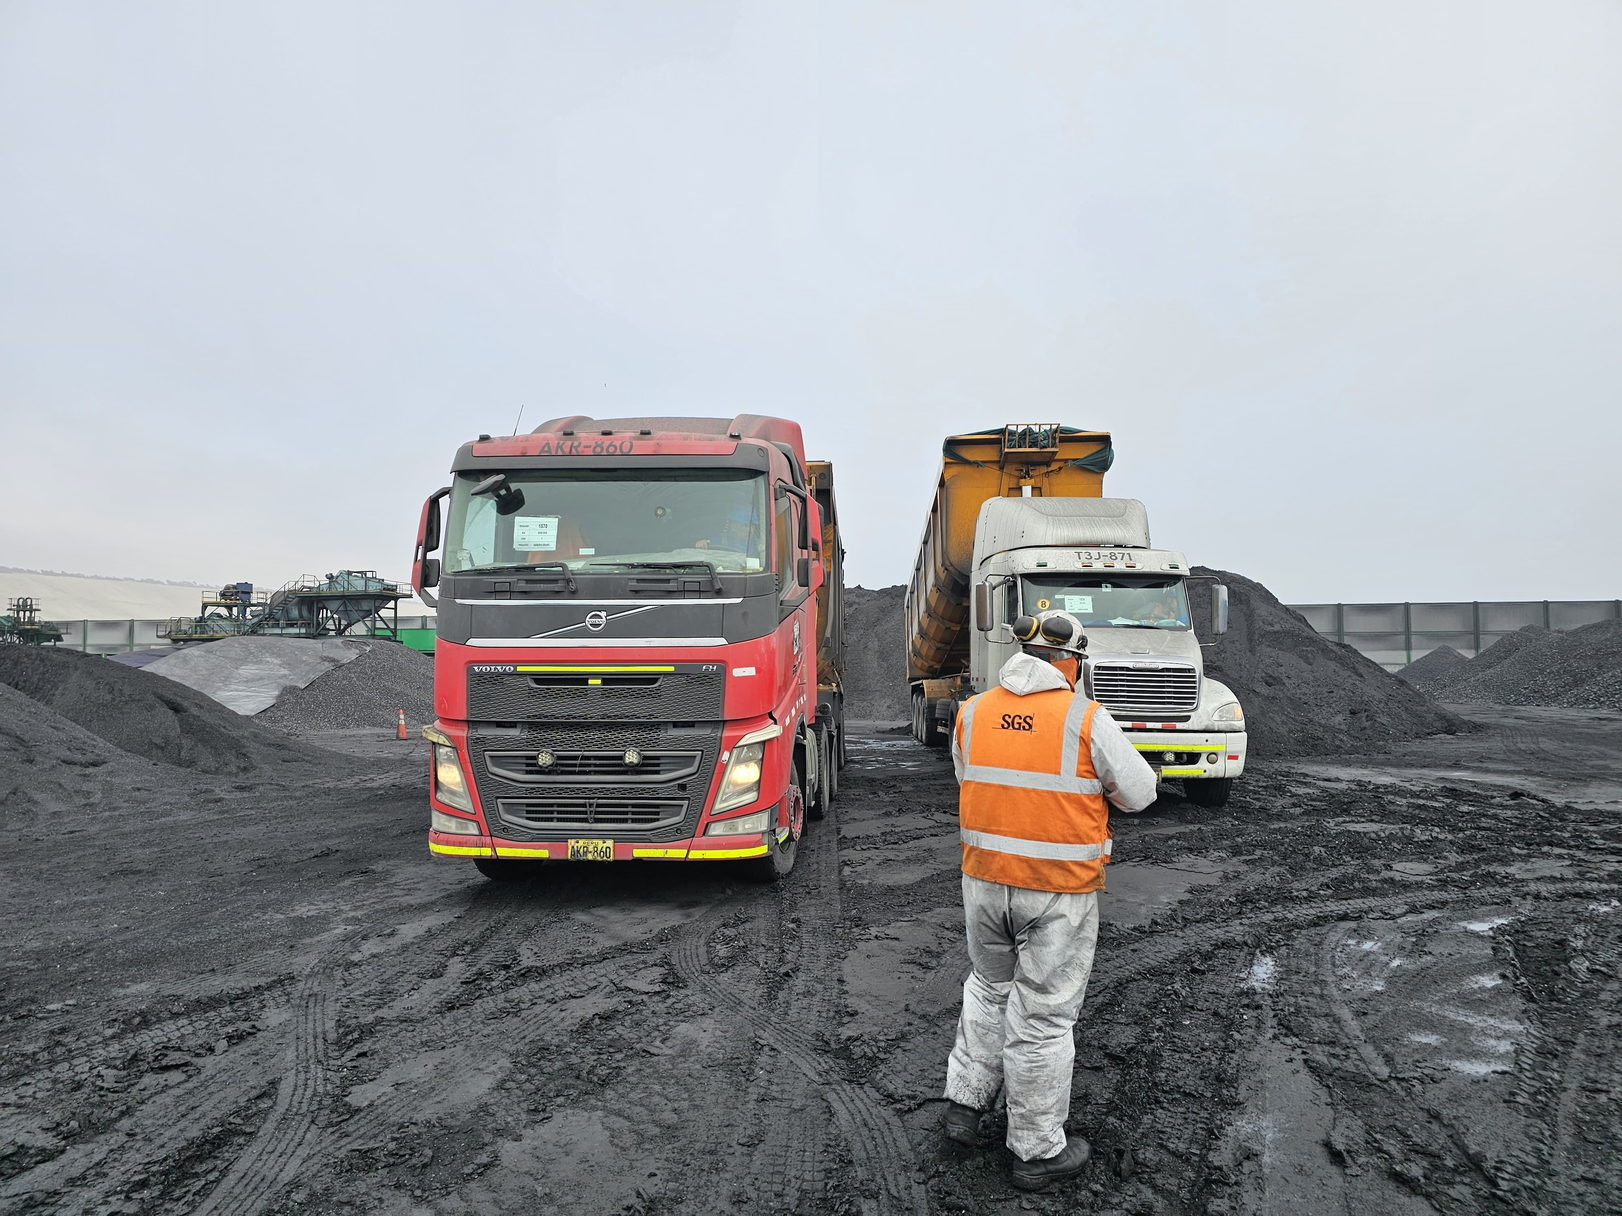
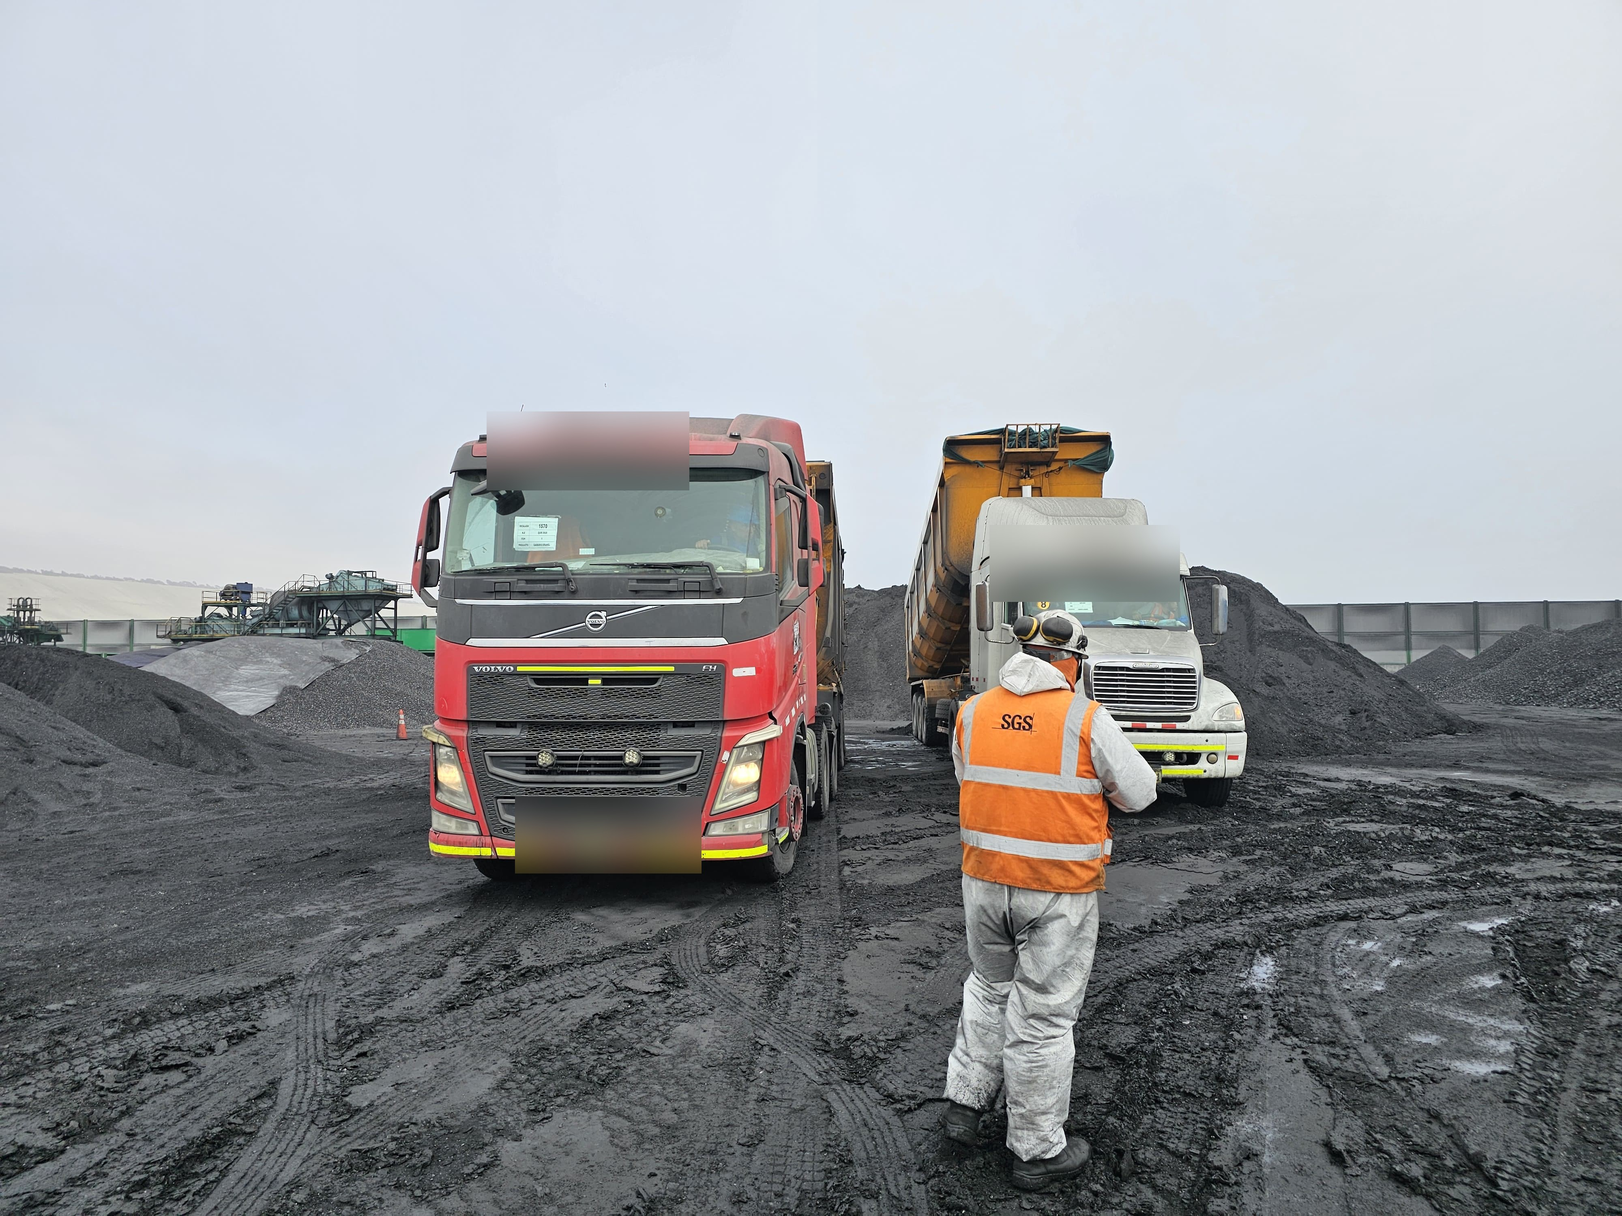
feat(home): rediseno Servicios iter.2 - bento asimetrico + GPS transversal
- index.html: reemplaza manifiesto 01-04 por bento (GPS band transversal + 3 celdas: s1 parallax / s2 wipe / s3 line-draw). GPS deja de ser 4to servicio.
- css/home.css: bloque .servicios iter-2 (Ag.6, verbatim).
- js/main.js: observer existente ampliado a [data-reveal-wipe],[data-draw-route] (no nuevo observer) + parallax celda 01.
- fotos: placas enmascaradas (s1 blur AKR-860/T3J-871; s2 recorte quita S-885); alt corregidos.

Changed region(s): [[0.3125, 0.651, 0.4375, 0.744], [0.2812, 0.341, 0.4375, 0.403], [0.5938, 0.434, 0.75, 0.496]]

diff --git a/css/home.css b/css/home.css
@@ -368,54 +368,71 @@
 
 
 /* ============================================================
-   SERVICIOS (rediseño Ag.6 · 07/2026)
-   Reemplaza el bloque .services-grid / .service-card anterior.
-   Nota Ag.3: reglas [data-reveal] acotadas a .servicios (evita afectar
-   el resto del home; el observer de main.js añade .is-visible).
+   SERVICIOS (rediseño Ag.6 iter.2 · bento asimétrico + GPS transversal · 07/2026)
+   Reemplaza el manifiesto 01-04 de la iter.1. GPS pasa de 4to servicio
+   a franja transversal. Reveal (wipe s2 / line-draw s3) vía .is-visible
+   que añade el IntersectionObserver existente de main.js; parallax s1 en JS.
    ============================================================ */
-.servicios { background: #FFFFFF; padding-block: clamp(3rem, 6vw, 6rem); }
-.servicios__intro { max-width: 42rem; margin-bottom: clamp(2rem, 4vw, 3.5rem); }
-.servicios__eyebrow { font-family: var(--font-body, 'Source Sans 3', sans-serif); font-size: .8rem; font-weight: 600; letter-spacing: .08em; text-transform: uppercase; color: var(--color-sky, #2A80C8); }
-.servicios__heading { font-family: var(--font-display, 'Barlow Condensed', sans-serif); font-size: clamp(2rem, 3.5vw, 3rem); color: var(--color-navy, #0A2240); margin: .5rem 0 0; }
-.servicios__body { display: grid; grid-template-columns: minmax(260px, 38%) 1fr; gap: clamp(2rem, 4vw, 3.5rem); align-items: stretch; }
-.servicios__photo { position: relative; overflow: hidden; min-height: 480px; clip-path: polygon(0 0, 100% 0, 88% 100%, 0 100%); }
-.servicios__photo-img { width: 100%; height: 100%; object-fit: cover; display: block; }
-.servicios__photo-overlay { position: absolute; inset: 0; background: linear-gradient(115deg, var(--color-navy, #0A2240) 12%, rgba(10,34,64,.55) 45%, rgba(10,34,64,.12) 75%); }
-.servicios__photo-chip { position: absolute; left: 1.5rem; bottom: 1.5rem; display: flex; align-items: baseline; gap: .5rem; padding: .75rem 1.1rem; border: 1px solid rgba(255,255,255,.18); color: #fff; backdrop-filter: blur(14px) saturate(140%); -webkit-backdrop-filter: blur(14px) saturate(140%); background: rgba(10,34,64,.35); }
-.servicios__photo-chip-value { font-family: var(--font-display, 'Barlow Condensed', sans-serif); font-size: 1.75rem; font-weight: 600; line-height: 1; }
-.servicios__photo-chip-label { font-family: var(--font-body, 'Source Sans 3', sans-serif); font-size: .7rem; text-transform: uppercase; letter-spacing: .06em; opacity: .85; }
-@media (prefers-reduced-transparency: reduce) { .servicios__photo-chip { background: var(--color-navy, #0A2240); backdrop-filter: none; -webkit-backdrop-filter: none; } }
-.servicios__manifest { list-style: none; margin: 0; padding: 0; }
-.servicios__row { display: grid; grid-template-columns: auto auto 1fr auto; align-items: center; gap: 1.25rem 1.5rem; padding: 1.75rem 0; border-top: 1px solid rgba(10,34,64,.12); transition: background-color .25s ease; }
-.servicios__row:last-child { border-bottom: 1px solid rgba(10,34,64,.12); }
-.servicios__row:hover, .servicios__row:focus-within { background-color: rgba(42,128,200,.06); }
-.servicios__row-index { font-family: var(--font-display, 'Barlow Condensed', sans-serif); font-size: 2.5rem; font-weight: 600; line-height: 1; color: var(--color-amber-deep, #C06A1E); min-width: 2.2ch; }
-.servicios__row-icon { width: 2rem; height: 2rem; color: var(--color-navy, #0A2240); flex-shrink: 0; }
-.servicios__row-icon svg { width: 100%; height: 100%; }
-.servicios__row-copy { min-width: 0; }
-.servicios__row-title { font-family: var(--font-display, 'Barlow Condensed', sans-serif); font-size: clamp(1.2rem, 1.6vw, 1.5rem); font-weight: 600; text-transform: uppercase; letter-spacing: .01em; color: var(--color-navy, #0A2240); margin: 0 0 .35rem; }
-.servicios__row-desc { font-family: var(--font-body, 'Source Sans 3', sans-serif); font-size: .95rem; line-height: 1.5; max-width: 52ch; color: #3C4A5C; margin: 0; }
-.servicios__row-link { font-family: var(--font-body, 'Source Sans 3', sans-serif); font-size: .875rem; font-weight: 600; color: var(--color-cta, #1B4F8A); text-decoration: none; white-space: nowrap; display: inline-flex; align-items: center; gap: .35rem; }
-.servicios__row-link:hover, .servicios__row-link:focus-visible { color: var(--color-sky, #2A80C8); }
-.servicios__row-link span { display: inline-block; transition: transform .2s ease; }
-.servicios__row:hover .servicios__row-link span, .servicios__row:focus-within .servicios__row-link span { transform: translateX(3px); }
-.servicios [data-reveal] { opacity: 0; transform: translateY(16px); transition: opacity .5s ease, transform .5s ease; }
-.servicios [data-reveal].is-visible { opacity: 1; transform: translateY(0); }
-.servicios__row:nth-child(1)[data-reveal] { transition-delay: 0ms; }
-.servicios__row:nth-child(2)[data-reveal] { transition-delay: 80ms; }
-.servicios__row:nth-child(3)[data-reveal] { transition-delay: 160ms; }
-.servicios__row:nth-child(4)[data-reveal] { transition-delay: 240ms; }
-@media (prefers-reduced-motion: reduce) { .servicios [data-reveal] { opacity: 1; transform: none; transition: none; } }
-@media (max-width: 768px) {
-  .servicios__body { grid-template-columns: 1fr; gap: 1.5rem; }
-  .servicios__photo { min-height: 200px; clip-path: polygon(0 0, 100% 0, 100% 100%, 0 90%); }
-  .servicios__photo-chip { left: 1rem; bottom: 1rem; padding: .6rem .85rem; }
-  .servicios__photo-chip-value { font-size: 1.4rem; }
-  .servicios__row { grid-template-columns: auto 1fr; grid-template-areas: "index icon" "copy copy" "link link"; row-gap: .6rem; }
-  .servicios__row-index { grid-area: index; font-size: 1.9rem; }
-  .servicios__row-icon { grid-area: icon; justify-self: start; width: 1.75rem; height: 1.75rem; }
-  .servicios__row-copy { grid-area: copy; }
-  .servicios__row-link { grid-area: link; min-height: 44px; align-items: center; }
+.servicios{background:#FFFFFF;padding-block:clamp(3rem,6vw,6rem);}
+.servicios__intro{max-width:42rem;margin-bottom:clamp(1.5rem,3vw,2.5rem);}
+.servicios__eyebrow{font-family:var(--font-body,'Source Sans 3',sans-serif);font-size:.8rem;font-weight:600;letter-spacing:.08em;text-transform:uppercase;color:var(--color-sky,#2A80C8);}
+.servicios__heading{font-family:var(--font-display,'Barlow Condensed',sans-serif);font-size:clamp(2rem,3.5vw,3rem);color:var(--color-navy,#0A2240);margin:.5rem 0 0;}
+
+.servicios__gps-band{display:flex;align-items:center;gap:.85rem;background:var(--color-navy,#0A2240);color:#fff;padding:.9rem 1.5rem;margin-bottom:clamp(2rem,4vw,3rem);border-left:4px solid var(--color-amber,#D97B2A);}
+.servicios__gps-dot{position:relative;width:.6rem;height:.6rem;border-radius:50%;background:var(--color-amber,#D97B2A);flex-shrink:0;}
+.servicios__gps-dot::after{content:"";position:absolute;inset:-6px;border-radius:50%;border:1px solid var(--color-amber,#D97B2A);animation:gpsPing 2.4s ease-out infinite;}
+@keyframes gpsPing{0%{transform:scale(.6);opacity:.9;}100%{transform:scale(2.2);opacity:0;}}
+.servicios__gps-text{font-family:var(--font-body,'Source Sans 3',sans-serif);font-size:.9rem;margin:0;}
+@media (prefers-reduced-motion:reduce){.servicios__gps-dot::after{animation:none;display:none;}}
+
+.servicios__grid{display:grid;grid-template-columns:1.35fr 1fr;grid-template-areas:"s1 s1" "s2 s3";gap:clamp(1.5rem,3vw,2rem);}
+.servicios__cell{position:relative;}
+.servicios__cell--s1{grid-area:s1;min-height:420px;overflow:hidden;}
+.servicios__cell--s2{grid-area:s2;min-height:380px;display:flex;flex-direction:column;}
+.servicios__cell--s3{grid-area:s3;min-height:380px;background:var(--color-navy,#0A2240);display:flex;flex-direction:column;justify-content:space-between;padding:1.75rem;overflow:hidden;}
+
+.servicios__cell-photo{position:absolute;inset:0;overflow:hidden;}
+.servicios__cell-img{width:100%;height:120%;object-fit:cover;display:block;will-change:transform;}
+.servicios__cell-overlay{position:absolute;inset:0;background:linear-gradient(100deg,var(--color-navy,#0A2240) 20%,rgba(10,34,64,.5) 50%,rgba(10,34,64,.05) 80%);}
+.servicios__cell-chip{position:absolute;left:1.5rem;bottom:1.5rem;padding:.6rem 1rem;color:#fff;font-family:var(--font-body,'Source Sans 3',sans-serif);font-size:.8rem;background:rgba(10,34,64,.35);backdrop-filter:blur(14px) saturate(140%);-webkit-backdrop-filter:blur(14px) saturate(140%);border:1px solid rgba(255,255,255,.18);}
+@media (prefers-reduced-transparency:reduce){.servicios__cell-chip{background:var(--color-navy,#0A2240);backdrop-filter:none;-webkit-backdrop-filter:none;}}
+.servicios__cell--s1 .servicios__cell-copy{position:relative;z-index:1;padding:2rem;max-width:30rem;color:#fff;}
+.servicios__cell--s1 .servicios__cell-title,.servicios__cell--s1 .servicios__cell-desc{color:#fff;}
+.servicios__cell--s1 .servicios__cell-link{color:var(--color-sky,#2A80C8);}
+
+.servicios__cell-photo--top{position:relative;height:55%;overflow:hidden;clip-path:inset(0 100% 0 0);transition:clip-path .9s cubic-bezier(.16,1,.3,1);}
+.servicios__cell--s2.is-visible .servicios__cell-photo--top{clip-path:inset(0 0 0 0);}
+.servicios__cell--s2 .servicios__cell-img{height:100%;}
+.servicios__cell-overlay--bottom{position:absolute;inset:0;background:linear-gradient(to bottom,rgba(10,34,64,0) 60%,var(--color-navy,#0A2240) 100%);}
+.servicios__cell-copy--solid{background:var(--color-navy,#0A2240);color:#fff;padding:1.5rem;flex:1;}
+.servicios__cell--s2 .servicios__cell-title,.servicios__cell--s2 .servicios__cell-desc{color:#fff;}
+.servicios__cell--s2 .servicios__cell-link{color:var(--color-sky,#2A80C8);}
+
+.servicios__cell--s3 .servicios__cell-title,.servicios__cell--s3 .servicios__cell-desc{color:#fff;}
+.servicios__cell--s3 .servicios__cell-link{color:var(--color-sky,#2A80C8);}
+.servicios__route-svg{width:100%;height:110px;color:var(--color-amber,#D97B2A);align-self:center;}
+.servicios__route-path{stroke-dasharray:260;stroke-dashoffset:260;transition:stroke-dashoffset 1.4s ease-out;}
+.servicios__cell--s3.is-visible .servicios__route-path{stroke-dashoffset:0;}
+
+.servicios__cell-index{font-family:var(--font-display,'Barlow Condensed',sans-serif);font-size:1.5rem;font-weight:600;color:var(--color-amber-deep,#C06A1E);display:block;margin-bottom:.35rem;}
+.servicios__cell-title{font-family:var(--font-display,'Barlow Condensed',sans-serif);font-size:clamp(1.2rem,1.6vw,1.5rem);font-weight:600;text-transform:uppercase;color:var(--color-navy,#0A2240);margin:0 0 .5rem;}
+.servicios__cell-desc{font-family:var(--font-body,'Source Sans 3',sans-serif);font-size:.9rem;line-height:1.5;color:#3C4A5C;margin:0 0 1rem;max-width:42ch;}
+.servicios__cell-link{font-family:var(--font-body,'Source Sans 3',sans-serif);font-size:.85rem;font-weight:600;color:var(--color-cta,#1B4F8A);text-decoration:none;display:inline-flex;align-items:center;gap:.35rem;}
+.servicios__cell-link:hover,.servicios__cell-link:focus-visible{color:var(--color-sky,#2A80C8);}
+.servicios__cell-link span{display:inline-block;transition:transform .2s ease;}
+.servicios__cell-link:hover span{transform:translateX(3px);}
+
+@media (prefers-reduced-motion:reduce){
+  .servicios__cell-photo--top{clip-path:inset(0 0 0 0) !important;transition:none;}
+  .servicios__route-path{stroke-dashoffset:0 !important;transition:none;}
+  .servicios__cell-img{transform:none !important;}
+}
+
+@media (max-width:768px){
+  .servicios__grid{grid-template-columns:1fr;grid-template-areas:"s1" "s2" "s3";}
+  .servicios__cell--s1{min-height:320px;}
+  .servicios__cell--s2,.servicios__cell--s3{min-height:auto;}
+  .servicios__gps-band{flex-wrap:wrap;}
 }
 
 

diff --git a/index.html b/index.html
@@ -276,61 +276,63 @@
     </section>
 
     <!-- =========================================================
-         SERVICIOS (rediseño Ag.6 · 07/2026)
+         SERVICIOS (rediseño Ag.6 iter.2 · bento asimétrico + GPS transversal · 07/2026)
          ========================================================= -->
     <section class="servicios" id="servicios" aria-labelledby="servicios-heading">
       <div class="servicios__intro">
         <span class="servicios__eyebrow">Qué hacemos</span>
         <h2 id="servicios-heading" class="servicios__heading">Soluciones de transporte para operaciones corporativas exigentes</h2>
       </div>
-      <div class="servicios__body">
-        <figure class="servicios__photo">
-          <img src="assets/images/servicios-flota.jpg" loading="lazy" class="servicios__photo-img"
-               alt="Maquinaria pesada —cargador frontal— en una operación de carga en cantera">
-          <div class="servicios__photo-overlay" aria-hidden="true"></div>
-          <figcaption class="servicios__photo-chip">
-            <span class="servicios__photo-chip-value">28</span>
-            <span class="servicios__photo-chip-label">unidades en flota</span>
-          </figcaption>
-        </figure>
-        <ol class="servicios__manifest">
-          <li class="servicios__row" data-reveal>
-            <span class="servicios__row-index">01</span>
-            <span class="servicios__row-icon" aria-hidden="true"><svg viewBox="0 0 28 28" fill="none" stroke="currentColor" stroke-width="1.75" stroke-linecap="round" stroke-linejoin="round"><rect x="4" y="7" width="20" height="16" rx="1.5"/><path d="M4 12h20"/><path d="M14 12v11"/><path d="M4 7l4-4h12l4 4"/></svg></span>
-            <div class="servicios__row-copy">
-              <h3 class="servicios__row-title">Transporte de carga general</h3>
-              <p class="servicios__row-desc">Mercadería en contenedores, pallets o carga suelta con guías de remisión y SUNAT en regla. Cobertura a nivel nacional.</p>
-            </div>
-            <a href="servicios.html#general" class="servicios__row-link">Ver detalle<span aria-hidden="true"> →</span></a>
-          </li>
-          <li class="servicios__row" data-reveal>
-            <span class="servicios__row-index">02</span>
-            <span class="servicios__row-icon" aria-hidden="true"><svg viewBox="0 0 28 28" fill="none" stroke="currentColor" stroke-width="1.75" stroke-linecap="round" stroke-linejoin="round"><path d="M5 5h18"/><path d="M14 5v9"/><path d="M11 14a3 3 0 0 0 6 0"/><path d="M14 17v2"/><rect x="8" y="19" width="12" height="5" rx="1"/></svg></span>
-            <div class="servicios__row-copy">
-              <h3 class="servicios__row-title">Carga pesada e industrial</h3>
-              <p class="servicios__row-desc">Maquinaria, equipos industriales y cargas de gran tonelaje. Grúas y equipos de maniobra disponibles para carga/descarga.</p>
-            </div>
-            <a href="servicios.html#industrial" class="servicios__row-link">Ver detalle<span aria-hidden="true"> →</span></a>
-          </li>
-          <li class="servicios__row" data-reveal>
-            <span class="servicios__row-index">03</span>
-            <span class="servicios__row-icon" aria-hidden="true"><svg viewBox="0 0 28 28" fill="none" stroke="currentColor" stroke-width="1.75" stroke-linecap="round" stroke-linejoin="round"><circle cx="5" cy="21" r="2"/><circle cx="14" cy="8" r="2"/><circle cx="23" cy="21" r="2"/><path d="M6.6 19.6L12.6 9.8"/><path d="M15.4 9.8L21.4 19.6"/></svg></span>
-            <div class="servicios__row-copy">
-              <h3 class="servicios__row-title">Distribución regional</h3>
-              <p class="servicios__row-desc">Rutas periódicas Lima, Trujillo, sierra liberteña y operaciones locales en Piura. Programación semanal con ventanas horarias definidas.</p>
-            </div>
-            <a href="servicios.html#regional" class="servicios__row-link">Ver detalle<span aria-hidden="true"> →</span></a>
-          </li>
-          <li class="servicios__row" data-reveal>
-            <span class="servicios__row-index">04</span>
-            <span class="servicios__row-icon" aria-hidden="true"><svg viewBox="0 0 28 28" fill="none" stroke="currentColor" stroke-width="1.75" stroke-linecap="round" stroke-linejoin="round"><circle cx="14" cy="20" r="1.7" fill="currentColor" stroke="none"/><path d="M9.5 15.5a6.5 6.5 0 0 1 9 0"/><path d="M6 12a10.5 10.5 0 0 1 16 0"/></svg></span>
-            <div class="servicios__row-copy">
-              <h3 class="servicios__row-title">Transporte con monitoreo</h3>
-              <p class="servicios__row-desc">Servicio premium con rastreo GPS en tiempo real, reportes de posición y alertas automáticas por desvío de ruta.</p>
-            </div>
-            <a href="servicios.html#monitoreo" class="servicios__row-link">Ver detalle<span aria-hidden="true"> →</span></a>
-          </li>
-        </ol>
+
+      <div class="servicios__gps-band">
+        <span class="servicios__gps-dot" aria-hidden="true"></span>
+        <p class="servicios__gps-text">Todos nuestros servicios incluyen rastreo GPS en tiempo real, reportes de posición y alertas automáticas por desvío de ruta.</p>
+      </div>
+
+      <div class="servicios__grid">
+        <article class="servicios__cell servicios__cell--s1" data-parallax>
+          <div class="servicios__cell-photo">
+            <img src="assets/images/servicios-s1-carga-general.jpg" loading="lazy" class="servicios__cell-img" data-parallax-layer
+                 alt="Camiones de carga de Anderson David en patio de acopio">
+            <div class="servicios__cell-overlay" aria-hidden="true"></div>
+            <span class="servicios__cell-chip"><strong>28</strong> unidades en flota</span>
+          </div>
+          <div class="servicios__cell-copy">
+            <span class="servicios__cell-index">01</span>
+            <h3 class="servicios__cell-title">Transporte de carga general</h3>
+            <p class="servicios__cell-desc">Mercadería en contenedores, pallets o carga suelta con guías de remisión y SUNAT en regla. Cobertura a nivel nacional.</p>
+            <a href="servicios.html#general" class="servicios__cell-link">Ver detalle<span aria-hidden="true"> →</span></a>
+          </div>
+        </article>
+
+        <article class="servicios__cell servicios__cell--s2" data-reveal-wipe>
+          <div class="servicios__cell-photo servicios__cell-photo--top">
+            <img src="assets/images/servicios-s2-carga-pesada.jpg" loading="lazy" class="servicios__cell-img"
+                 alt="Cargador frontal y maquinaria pesada en operación de carga en cantera">
+            <div class="servicios__cell-overlay--bottom" aria-hidden="true"></div>
+          </div>
+          <div class="servicios__cell-copy servicios__cell-copy--solid">
+            <span class="servicios__cell-index">02</span>
+            <h3 class="servicios__cell-title">Carga pesada e industrial</h3>
+            <p class="servicios__cell-desc">Maquinaria, equipos industriales y cargas de gran tonelaje. Grúas y equipos de maniobra disponibles para carga/descarga.</p>
+            <a href="servicios.html#industrial" class="servicios__cell-link">Ver detalle<span aria-hidden="true"> →</span></a>
+          </div>
+        </article>
+
+        <article class="servicios__cell servicios__cell--s3" data-draw-route>
+          <div class="servicios__cell-copy" style="background:transparent;padding:0;">
+            <span class="servicios__cell-index">03</span>
+            <h3 class="servicios__cell-title">Distribución regional</h3>
+            <p class="servicios__cell-desc">Rutas periódicas Lima, Trujillo, sierra liberteña y operaciones locales en Piura. Programación semanal con ventanas horarias definidas.</p>
+            <a href="servicios.html#regional" class="servicios__cell-link">Ver detalle<span aria-hidden="true"> →</span></a>
+          </div>
+          <svg class="servicios__route-svg" viewBox="0 0 200 140" aria-hidden="true">
+            <circle cx="20" cy="115" r="4" fill="currentColor"/>
+            <circle cx="100" cy="30" r="4" fill="currentColor"/>
+            <circle cx="180" cy="115" r="4" fill="currentColor"/>
+            <path class="servicios__route-path" d="M20 115 L100 30 L180 115" fill="none" stroke="currentColor" stroke-width="2"/>
+          </svg>
+        </article>
       </div>
     </section>
 

diff --git a/js/main.js b/js/main.js
@@ -75,7 +75,9 @@
   });
 
   /* --- IntersectionObserver reveal ------------------------- */
-  const revealElements = document.querySelectorAll('[data-reveal]');
+  /* Incluye los triggers del rediseño Servicios iter.2 (wipe s2 / line-draw s3):
+     mismo observer, mismo callback (add .is-visible una sola vez). */
+  const revealElements = document.querySelectorAll('[data-reveal], [data-reveal-wipe], [data-draw-route]');
 
   if (revealElements.length && 'IntersectionObserver' in window) {
     const observer = new IntersectionObserver(
@@ -294,6 +296,24 @@ document.addEventListener('DOMContentLoaded', () => {
       });
     }, { threshold: 0.3, rootMargin: '0px 0px -60px 0px' });
     mapObserver.observe(mapWrapper);
+  }
+
+  /* E. SERVICIOS iter.2 — PARALLAX celda 01 (código nuevo: scroll continuo, no un toggle).
+     Los reveal wipe (s2) / line-draw (s3) usan el IntersectionObserver existente del primer IIFE. */
+  const parallaxLayer = document.querySelector('[data-parallax-layer]');
+  if (parallaxLayer && !window.matchMedia('(prefers-reduced-motion: reduce)').matches) {
+    const parallaxCell = document.querySelector('[data-parallax]');
+    let pTicking = false;
+    function updateParallax() {
+      const rect = parallaxCell.getBoundingClientRect();
+      const progress = (window.innerHeight - rect.top) / (window.innerHeight + rect.height);
+      const offset = Math.max(-1, Math.min(1, progress)) * 30;
+      parallaxLayer.style.transform = `translateY(${offset}px)`;
+      pTicking = false;
+    }
+    window.addEventListener('scroll', () => {
+      if (!pTicking) { requestAnimationFrame(updateParallax); pTicking = true; }
+    }, { passive: true });
   }
 
 });
